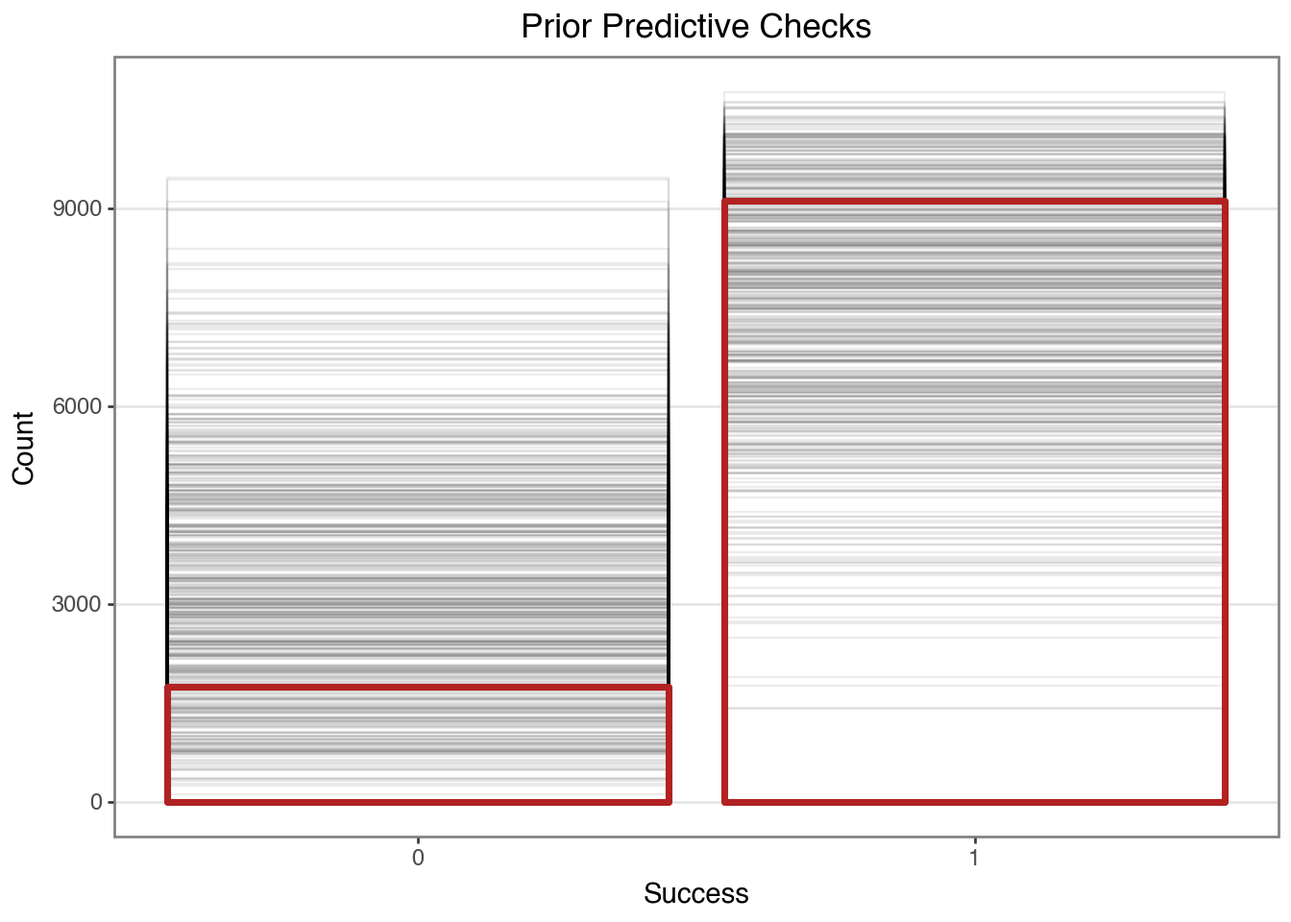
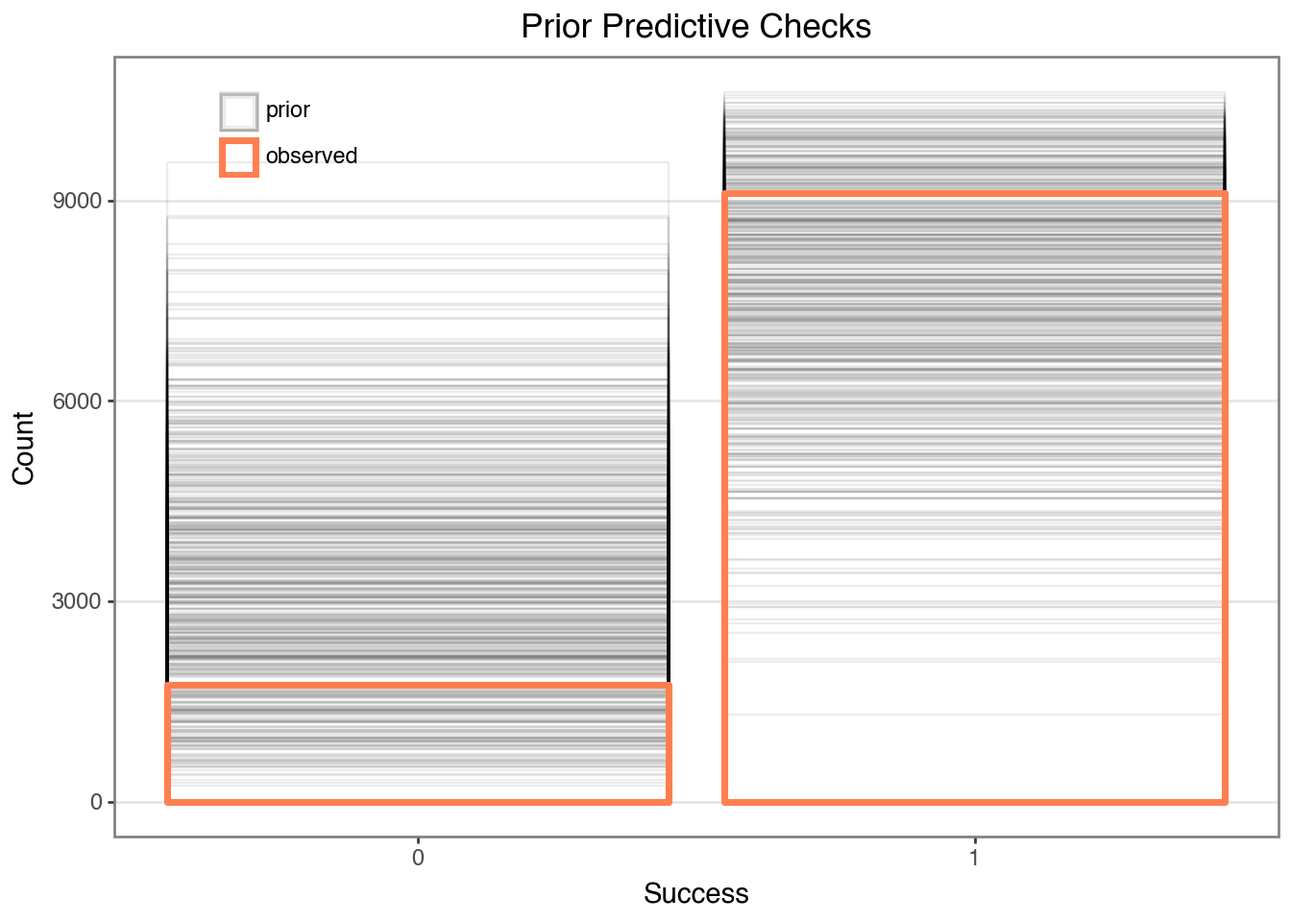
pretty prior

diff --git a/kicker_model.html b/kicker_model.html
@@ -348,7 +348,7 @@ y_i &amp;\sim \operatorname{Bernoulli}(p_i) \\
 <span id="cb4-24"><a href="#cb4-24" aria-hidden="true" tabindex="-1"></a>)</span>
 <span id="cb4-25"><a href="#cb4-25" aria-hidden="true" tabindex="-1"></a></span>
 <span id="cb4-26"><a href="#cb4-26" aria-hidden="true" tabindex="-1"></a>model</span></code><button title="Copy to Clipboard" class="code-copy-button"><i class="bi"></i></button></pre></div>
-<div class="cell-output cell-output-display" data-execution_count="20">
+<div class="cell-output cell-output-display" data-execution_count="4">
 <pre><code>       Formula: success ~ (1|player_id) + bs(distance, df=4, intercept=False)
         Family: bernoulli
           Link: p = logit
@@ -389,31 +389,29 @@ y_i &amp;\sim \operatorname{Bernoulli}(p_i) \\
 <span id="cb8-5"><a href="#cb8-5" aria-hidden="true" tabindex="-1"></a>(</span>
 <span id="cb8-6"><a href="#cb8-6" aria-hidden="true" tabindex="-1"></a>    ggplot(aes(<span class="st">"success"</span>, <span class="st">"len"</span>))</span>
 <span id="cb8-7"><a href="#cb8-7" aria-hidden="true" tabindex="-1"></a>    <span class="op">+</span> geom_col(</span>
-<span id="cb8-8"><a href="#cb8-8" aria-hidden="true" tabindex="-1"></a>        aes(group<span class="op">=</span><span class="st">"draw"</span>),</span>
+<span id="cb8-8"><a href="#cb8-8" aria-hidden="true" tabindex="-1"></a>        aes(group<span class="op">=</span><span class="st">"draw"</span>, color<span class="op">=</span><span class="st">"t"</span>),</span>
 <span id="cb8-9"><a href="#cb8-9" aria-hidden="true" tabindex="-1"></a>        position<span class="op">=</span><span class="st">"identity"</span>,</span>
 <span id="cb8-10"><a href="#cb8-10" aria-hidden="true" tabindex="-1"></a>        fill<span class="op">=</span><span class="va">None</span>,</span>
-<span id="cb8-11"><a href="#cb8-11" aria-hidden="true" tabindex="-1"></a>        color<span class="op">=</span><span class="st">"#00000013"</span>,</span>
+<span id="cb8-11"><a href="#cb8-11" aria-hidden="true" tabindex="-1"></a>        <span class="co"># color="#00000013",</span></span>
 <span id="cb8-12"><a href="#cb8-12" aria-hidden="true" tabindex="-1"></a>        alpha<span class="op">=</span><span class="fl">0.01</span>,</span>
-<span id="cb8-13"><a href="#cb8-13" aria-hidden="true" tabindex="-1"></a>        data<span class="op">=</span>df_prior.group_by([<span class="st">"draw"</span>, <span class="st">"success"</span>]).<span class="bu">len</span>(),</span>
-<span id="cb8-14"><a href="#cb8-14" aria-hidden="true" tabindex="-1"></a>    )</span>
-<span id="cb8-15"><a href="#cb8-15" aria-hidden="true" tabindex="-1"></a>    <span class="op">+</span> geom_col(</span>
-<span id="cb8-16"><a href="#cb8-16" aria-hidden="true" tabindex="-1"></a>        fill<span class="op">=</span><span class="va">None</span>,</span>
-<span id="cb8-17"><a href="#cb8-17" aria-hidden="true" tabindex="-1"></a>        color<span class="op">=</span><span class="st">"firebrick"</span>,</span>
-<span id="cb8-18"><a href="#cb8-18" aria-hidden="true" tabindex="-1"></a>        size <span class="op">=</span> <span class="fl">1.5</span>,</span>
-<span id="cb8-19"><a href="#cb8-19" aria-hidden="true" tabindex="-1"></a>        data<span class="op">=</span>df.group_by([<span class="st">"success"</span>]).<span class="bu">len</span>(),</span>
-<span id="cb8-20"><a href="#cb8-20" aria-hidden="true" tabindex="-1"></a>    )</span>
-<span id="cb8-21"><a href="#cb8-21" aria-hidden="true" tabindex="-1"></a>    <span class="op">+</span> theme_bw()</span>
-<span id="cb8-22"><a href="#cb8-22" aria-hidden="true" tabindex="-1"></a>    <span class="op">+</span> labs(</span>
-<span id="cb8-23"><a href="#cb8-23" aria-hidden="true" tabindex="-1"></a>        title <span class="op">=</span><span class="st">'Prior Predictive Checks'</span>,</span>
-<span id="cb8-24"><a href="#cb8-24" aria-hidden="true" tabindex="-1"></a>        x <span class="op">=</span> <span class="st">'Success'</span>,</span>
-<span id="cb8-25"><a href="#cb8-25" aria-hidden="true" tabindex="-1"></a>        y <span class="op">=</span> <span class="st">'Count'</span></span>
-<span id="cb8-26"><a href="#cb8-26" aria-hidden="true" tabindex="-1"></a>    )</span>
+<span id="cb8-13"><a href="#cb8-13" aria-hidden="true" tabindex="-1"></a>        data<span class="op">=</span>df_prior.group_by([<span class="st">"draw"</span>, <span class="st">"success"</span>])</span>
+<span id="cb8-14"><a href="#cb8-14" aria-hidden="true" tabindex="-1"></a>        .<span class="bu">len</span>()</span>
+<span id="cb8-15"><a href="#cb8-15" aria-hidden="true" tabindex="-1"></a>        .with_columns(t<span class="op">=</span>pl.lit(<span class="st">"prior"</span>)),</span>
+<span id="cb8-16"><a href="#cb8-16" aria-hidden="true" tabindex="-1"></a>    )</span>
+<span id="cb8-17"><a href="#cb8-17" aria-hidden="true" tabindex="-1"></a>    <span class="op">+</span> geom_col(</span>
+<span id="cb8-18"><a href="#cb8-18" aria-hidden="true" tabindex="-1"></a>        aes(color<span class="op">=</span><span class="st">"t"</span>),</span>
+<span id="cb8-19"><a href="#cb8-19" aria-hidden="true" tabindex="-1"></a>        fill<span class="op">=</span><span class="va">None</span>,</span>
+<span id="cb8-20"><a href="#cb8-20" aria-hidden="true" tabindex="-1"></a>        <span class="co">#width = 0.5,</span></span>
+<span id="cb8-21"><a href="#cb8-21" aria-hidden="true" tabindex="-1"></a>        <span class="co">#alpha = 0.1,</span></span>
+<span id="cb8-22"><a href="#cb8-22" aria-hidden="true" tabindex="-1"></a>        size<span class="op">=</span><span class="fl">1.5</span>,</span>
+<span id="cb8-23"><a href="#cb8-23" aria-hidden="true" tabindex="-1"></a>        data<span class="op">=</span>df.group_by([<span class="st">"success"</span>]).<span class="bu">len</span>().with_columns(t<span class="op">=</span>pl.lit(<span class="st">"observed"</span>)),</span>
+<span id="cb8-24"><a href="#cb8-24" aria-hidden="true" tabindex="-1"></a>    )</span>
+<span id="cb8-25"><a href="#cb8-25" aria-hidden="true" tabindex="-1"></a>    <span class="op">+</span> theme_bw()</span>
+<span id="cb8-26"><a href="#cb8-26" aria-hidden="true" tabindex="-1"></a>    <span class="op">+</span> labs(title<span class="op">=</span><span class="st">"Prior Predictive Checks"</span>, x<span class="op">=</span><span class="st">"Success"</span>, y<span class="op">=</span><span class="st">"Count"</span>, color<span class="op">=</span><span class="st">''</span>)</span>
 <span id="cb8-27"><a href="#cb8-27" aria-hidden="true" tabindex="-1"></a>    <span class="op">+</span> scale_x_continuous(breaks<span class="op">=</span>[<span class="dv">0</span>, <span class="dv">1</span>])</span>
-<span id="cb8-28"><a href="#cb8-28" aria-hidden="true" tabindex="-1"></a>    <span class="op">+</span> theme(</span>
-<span id="cb8-29"><a href="#cb8-29" aria-hidden="true" tabindex="-1"></a>        panel_grid_minor<span class="op">=</span>element_blank(),</span>
-<span id="cb8-30"><a href="#cb8-30" aria-hidden="true" tabindex="-1"></a>        panel_grid_major_x<span class="op">=</span>element_blank()</span>
-<span id="cb8-31"><a href="#cb8-31" aria-hidden="true" tabindex="-1"></a>    )</span>
-<span id="cb8-32"><a href="#cb8-32" aria-hidden="true" tabindex="-1"></a>)</span></code><button title="Copy to Clipboard" class="code-copy-button"><i class="bi"></i></button></pre></div>
+<span id="cb8-28"><a href="#cb8-28" aria-hidden="true" tabindex="-1"></a>    <span class="op">+</span> theme(panel_grid_minor<span class="op">=</span>element_blank(), panel_grid_major_x<span class="op">=</span>element_blank(), legend_position<span class="op">=</span>(<span class="fl">0.1</span>,<span class="dv">1</span>), legend_background<span class="op">=</span>element_blank())</span>
+<span id="cb8-29"><a href="#cb8-29" aria-hidden="true" tabindex="-1"></a>    <span class="op">+</span> scale_color_manual(values<span class="op">=</span>(<span class="st">"#00000013"</span>, <span class="st">'coral'</span>))</span>
+<span id="cb8-30"><a href="#cb8-30" aria-hidden="true" tabindex="-1"></a>)</span></code><button title="Copy to Clipboard" class="code-copy-button"><i class="bi"></i></button></pre></div>
 </details>
 <div class="cell-output cell-output-stderr">
 <pre><code>Sampling: [1|player_id_offset, 1|player_id_sigma, Intercept, bs(distance, df=4, intercept=False), success]</code></pre>
@@ -439,7 +437,7 @@ Sampling 4 chains for 1_000 tune and 1_000 draw iterations (4_000 + 4_000 draws 
 </div>
 <div class="cell-output cell-output-display">
 <script type="application/vnd.jupyter.widget-view+json">
-{"model_id":"37d672469698436f919d8279b207179b","version_major":2,"version_minor":0,"quarto_mimetype":"application/vnd.jupyter.widget-view+json"}
+{"model_id":"1f8a27e63a84453985e64b0b5316aeb8","version_major":2,"version_minor":0,"quarto_mimetype":"application/vnd.jupyter.widget-view+json"}
 </script>
 </div>
 <div class="cell-output cell-output-display">
@@ -469,7 +467,7 @@ Sampling 4 chains for 1_000 tune and 1_000 draw iterations (4_000 + 4_000 draws 
 <span id="cb12-12"><a href="#cb12-12" aria-hidden="true" tabindex="-1"></a>    columns<span class="op">=</span>{<span class="st">"index"</span>: <span class="st">"player_name"</span>}</span>
 <span id="cb12-13"><a href="#cb12-13" aria-hidden="true" tabindex="-1"></a>).sort_values(<span class="st">'mean'</span>, ascending<span class="op">=</span><span class="va">False</span>)</span></code><button title="Copy to Clipboard" class="code-copy-button"><i class="bi"></i></button></pre></div>
 </details>
-<div class="cell-output cell-output-display" data-execution_count="24">
+<div class="cell-output cell-output-display" data-execution_count="8">
 <div>
 
 
@@ -647,7 +645,7 @@ Sampling 4 chains for 1_000 tune and 1_000 draw iterations (4_000 + 4_000 draws 
 <p>Splines togehter with field goal distance were used, and the following discusses how those work with the model. The table below shows the summary of spline coefficient distributions.</p>
 <div class="cell" data-execution_count="9">
 <div class="sourceCode cell-code" id="cb13"><pre class="sourceCode python code-with-copy"><code class="sourceCode python"><span id="cb13-1"><a href="#cb13-1" aria-hidden="true" tabindex="-1"></a>az.summary(idata, var_names<span class="op">=</span>[<span class="st">"Intercept"</span>, s])</span></code><button title="Copy to Clipboard" class="code-copy-button"><i class="bi"></i></button></pre></div>
-<div class="cell-output cell-output-display" data-execution_count="25">
+<div class="cell-output cell-output-display" data-execution_count="9">
 <div>
 
 
@@ -853,7 +851,7 @@ Sampling 4 chains for 1_000 tune and 1_000 draw iterations (4_000 + 4_000 draws 
 </section>
 <section id="results-1" class="level4">
 <h4 class="anchored" data-anchor-id="results-1">2016-2017 results</h4>
-<p>Looking at the previous 2 seasons, Tucker was one of the better kickers in the by traditional FGOE.</p>
+<p>Looking at the previous 2 seasons, Tucker was one of the best kickers in the league by traditional FGOE.</p>
 <div class="cell" data-execution_count="14">
 <details>
 <summary>Code</summary>
@@ -888,7 +886,7 @@ Sampling 4 chains for 1_000 tune and 1_000 draw iterations (4_000 + 4_000 draws 
 <span id="cb18-29"><a href="#cb18-29" aria-hidden="true" tabindex="-1"></a>    <span class="op">+</span> scale_color_identity()</span>
 <span id="cb18-30"><a href="#cb18-30" aria-hidden="true" tabindex="-1"></a>    <span class="op">+</span> labs(</span>
 <span id="cb18-31"><a href="#cb18-31" aria-hidden="true" tabindex="-1"></a>        title<span class="op">=</span><span class="st">"Field Goal Over Expected (FGOE)"</span>,</span>
-<span id="cb18-32"><a href="#cb18-32" aria-hidden="true" tabindex="-1"></a>        subtitle<span class="op">=</span><span class="st">"2016 - 2017 | Justin Tucker has typically been one of the better kickers"</span>,</span>
+<span id="cb18-32"><a href="#cb18-32" aria-hidden="true" tabindex="-1"></a>        subtitle<span class="op">=</span><span class="st">"2016 - 2017 | Justin Tucker has been one of the best"</span>,</span>
 <span id="cb18-33"><a href="#cb18-33" aria-hidden="true" tabindex="-1"></a>        y<span class="op">=</span><span class="st">"Traditional FGOE"</span>,</span>
 <span id="cb18-34"><a href="#cb18-34" aria-hidden="true" tabindex="-1"></a>    )</span>
 <span id="cb18-35"><a href="#cb18-35" aria-hidden="true" tabindex="-1"></a>    <span class="op">+</span> theme_bw()</span>
@@ -1014,7 +1012,7 @@ Sampling 4 chains for 1_000 tune and 1_000 draw iterations (4_000 + 4_000 draws 
 <span id="cb20-32"><a href="#cb20-32" aria-hidden="true" tabindex="-1"></a>df_output.group_by([<span class="st">"player_name"</span>, <span class="st">"player_id"</span>]).agg(</span>
 <span id="cb20-33"><a href="#cb20-33" aria-hidden="true" tabindex="-1"></a>    fgoe_mean<span class="op">=</span>pl.col(<span class="st">"fgoe"</span>).mean(), simulations<span class="op">=</span>pl.<span class="bu">len</span>()</span>
 <span id="cb20-34"><a href="#cb20-34" aria-hidden="true" tabindex="-1"></a>)</span></code><button title="Copy to Clipboard" class="code-copy-button"><i class="bi"></i></button></pre></div>
-<div class="cell-output cell-output-display" data-execution_count="32">
+<div class="cell-output cell-output-display" data-execution_count="16">
 <div><style>
 .dataframe > thead > tr,
 .dataframe > tbody > tr {
@@ -1040,9 +1038,21 @@ Sampling 4 chains for 1_000 tune and 1_000 draw iterations (4_000 + 4_000 draws 
 </thead>
 <tbody>
 <tr class="odd">
-<td>"JAKE ELLIOTT"</td>
-<td>"44966"</td>
-<td>-0.136802</td>
+<td>"JASON MYERS"</td>
+<td>"41175"</td>
+<td>0.206849</td>
+<td>4000</td>
+</tr>
+<tr class="even">
+<td>"JOHNNY HEKKER"</td>
+<td>"38815"</td>
+<td>-0.048811</td>
+<td>4000</td>
+</tr>
+<tr class="odd">
+<td>"STEPHEN GOSTKOWSKI"</td>
+<td>"30932"</td>
+<td>1.309409</td>
 <td>4000</td>
 </tr>
 <tr class="even">
@@ -1052,21 +1062,9 @@ Sampling 4 chains for 1_000 tune and 1_000 draw iterations (4_000 + 4_000 draws 
 <td>4000</td>
 </tr>
 <tr class="odd">
-<td>"KA'IMI FAIRBAIRN"</td>
-<td>"43846"</td>
-<td>-0.289332</td>
-<td>4000</td>
-</tr>
-<tr class="even">
-<td>"HARRISON BUTKER"</td>
-<td>"45046"</td>
-<td>1.015906</td>
-<td>4000</td>
-</tr>
-<tr class="odd">
-<td>"NICK ROSE"</td>
-<td>"43704"</td>
-<td>-1.165506</td>
+<td>"BRETT MAHER"</td>
+<td>"40775"</td>
+<td>0.657678</td>
 <td>4000</td>
 </tr>
 <tr class="even">
@@ -1074,18 +1072,6 @@ Sampling 4 chains for 1_000 tune and 1_000 draw iterations (4_000 + 4_000 draws 
 <td>…</td>
 <td>…</td>
 <td>…</td>
-</tr>
-<tr class="odd">
-<td>"BRANDON MCMANUS"</td>
-<td>"40276"</td>
-<td>0.380004</td>
-<td>4000</td>
-</tr>
-<tr class="even">
-<td>"MATTHEW MCCRANE"</td>
-<td>"46663"</td>
-<td>-0.373552</td>
-<td>4000</td>
 </tr>
 <tr class="odd">
 <td>"JON BROWN"</td>
@@ -1094,15 +1080,27 @@ Sampling 4 chains for 1_000 tune and 1_000 draw iterations (4_000 + 4_000 draws 
 <td>4000</td>
 </tr>
 <tr class="even">
-<td>"STEPHEN GOSTKOWSKI"</td>
-<td>"30932"</td>
-<td>1.309409</td>
+<td>"GREG JOSEPH"</td>
+<td>"46634"</td>
+<td>0.250833</td>
 <td>4000</td>
 </tr>
 <tr class="odd">
-<td>"JOHNNY HEKKER"</td>
-<td>"38815"</td>
-<td>-0.048811</td>
+<td>"ALDRICK ROSAS"</td>
+<td>"43937"</td>
+<td>0.054861</td>
+<td>4000</td>
+</tr>
+<tr class="even">
+<td>"JUSTIN TUCKER"</td>
+<td>"39470"</td>
+<td>2.574611</td>
+<td>4000</td>
+</tr>
+<tr class="odd">
+<td>"SAM FICKEN"</td>
+<td>"44240"</td>
+<td>-0.727928</td>
 <td>4000</td>
 </tr>
 </tbody>
@@ -1402,54 +1400,54 @@ Note
 <span id="cb24-111"><a href="#cb24-111" aria-hidden="true" tabindex="-1"></a>    )</span>
 <span id="cb24-112"><a href="#cb24-112" aria-hidden="true" tabindex="-1"></a>)</span></code><button title="Copy to Clipboard" class="code-copy-button"><i class="bi"></i></button></pre></div>
 </details>
-<div class="cell-output cell-output-display" data-execution_count="36">
+<div class="cell-output cell-output-display" data-execution_count="20">
 
-<div id="amqemqhapv" style="padding-left:0px;padding-right:0px;padding-top:10px;padding-bottom:10px;overflow-x:auto;overflow-y:auto;width:auto;height:auto;">
+<div id="tuexepanze" style="padding-left:0px;padding-right:0px;padding-top:10px;padding-bottom:10px;overflow-x:auto;overflow-y:auto;width:auto;height:auto;">
 <style>
-#amqemqhapv table {
+#tuexepanze table {
           font-family: -apple-system, BlinkMacSystemFont, 'Segoe UI', Roboto, Oxygen, Ubuntu, Cantarell, 'Helvetica Neue', 'Fira Sans', 'Droid Sans', Arial, sans-serif;
           -webkit-font-smoothing: antialiased;
           -moz-osx-font-smoothing: grayscale;
         }
 
-#amqemqhapv thead, tbody, tfoot, tr, td, th { border-style: none; }
+#tuexepanze thead, tbody, tfoot, tr, td, th { border-style: none; }
  tr { background-color: transparent; }
-#amqemqhapv p { margin: 0; padding: 0; }
- #amqemqhapv .gt_table { display: table; border-collapse: collapse; line-height: normal; margin-left: auto; margin-right: auto; color: #333333; font-size: 16px; font-weight: normal; font-style: normal; background-color: #FFFFFF; width: auto; border-top-style: solid; border-top-width: 2px; border-top-color: #A8A8A8; border-right-style: none; border-right-width: 2px; border-right-color: #D3D3D3; border-bottom-style: solid; border-bottom-width: 2px; border-bottom-color: #A8A8A8; border-left-style: none; border-left-width: 2px; border-left-color: #D3D3D3; }
- #amqemqhapv .gt_caption { padding-top: 4px; padding-bottom: 4px; }
- #amqemqhapv .gt_title { color: #333333; font-size: 125%; font-weight: initial; padding-top: 4px; padding-bottom: 4px; padding-left: 5px; padding-right: 5px; border-bottom-color: #FFFFFF; border-bottom-width: 0; }
- #amqemqhapv .gt_subtitle { color: #333333; font-size: 85%; font-weight: initial; padding-top: 3px; padding-bottom: 5px; padding-left: 5px; padding-right: 5px; border-top-color: #FFFFFF; border-top-width: 0; }
- #amqemqhapv .gt_heading { background-color: #FFFFFF; text-align: center; border-bottom-color: #FFFFFF; border-left-style: none; border-left-width: 1px; border-left-color: #D3D3D3; border-right-style: none; border-right-width: 1px; border-right-color: #D3D3D3; }
- #amqemqhapv .gt_bottom_border { border-bottom-style: solid; border-bottom-width: 2px; border-bottom-color: #D3D3D3; }
- #amqemqhapv .gt_col_headings { border-top-style: solid; border-top-width: 2px; border-top-color: #D3D3D3; border-bottom-style: solid; border-bottom-width: 2px; border-bottom-color: #D3D3D3; border-left-style: none; border-left-width: 1px; border-left-color: #D3D3D3; border-right-style: none; border-right-width: 1px; border-right-color: #D3D3D3; }
- #amqemqhapv .gt_col_heading { color: #333333; background-color: #FFFFFF; font-size: 100%; font-weight: normal; text-transform: inherit; border-left-style: none; border-left-width: 1px; border-left-color: #D3D3D3; border-right-style: none; border-right-width: 1px; border-right-color: #D3D3D3; vertical-align: bottom; padding-top: 5px; padding-bottom: 5px; padding-left: 5px; padding-right: 5px; overflow-x: hidden; }
- #amqemqhapv .gt_column_spanner_outer { color: #333333; background-color: #FFFFFF; font-size: 100%; font-weight: normal; text-transform: inherit; padding-top: 0; padding-bottom: 0; padding-left: 4px; padding-right: 4px; }
- #amqemqhapv .gt_column_spanner_outer:first-child { padding-left: 0; }
- #amqemqhapv .gt_column_spanner_outer:last-child { padding-right: 0; }
- #amqemqhapv .gt_column_spanner { border-bottom-style: solid; border-bottom-width: 2px; border-bottom-color: #D3D3D3; vertical-align: bottom; padding-top: 5px; padding-bottom: 5px; overflow-x: hidden; display: inline-block; width: 100%; }
- #amqemqhapv .gt_spanner_row { border-bottom-style: hidden; }
- #amqemqhapv .gt_group_heading { padding-top: 8px; padding-bottom: 8px; padding-left: 5px; padding-right: 5px; color: #333333; background-color: #FFFFFF; font-size: 100%; font-weight: initial; text-transform: inherit; border-top-style: solid; border-top-width: 2px; border-top-color: #D3D3D3; border-bottom-style: solid; border-bottom-width: 2px; border-bottom-color: #D3D3D3; border-left-style: none; border-left-width: 1px; border-left-color: #D3D3D3; border-right-style: none; border-right-width: 1px; border-right-color: #D3D3D3; vertical-align: middle; text-align: left; }
- #amqemqhapv .gt_empty_group_heading { padding: 0.5px; color: #333333; background-color: #FFFFFF; font-size: 100%; font-weight: initial; border-top-style: solid; border-top-width: 2px; border-top-color: #D3D3D3; border-bottom-style: solid; border-bottom-width: 2px; border-bottom-color: #D3D3D3; vertical-align: middle; }
- #amqemqhapv .gt_from_md> :first-child { margin-top: 0; }
- #amqemqhapv .gt_from_md> :last-child { margin-bottom: 0; }
- #amqemqhapv .gt_row { padding-top: 8px; padding-bottom: 8px; padding-left: 5px; padding-right: 5px; margin: 10px; border-top-style: solid; border-top-width: 1px; border-top-color: #D3D3D3; border-left-style: none; border-left-width: 1px; border-left-color: #D3D3D3; border-right-style: none; border-right-width: 1px; border-right-color: #D3D3D3; vertical-align: middle; overflow-x: hidden; }
- #amqemqhapv .gt_stub { color: #333333; background-color: #FFFFFF; font-size: 100%; font-weight: initial; text-transform: inherit; border-right-style: solid; border-right-width: 2px; border-right-color: #D3D3D3; padding-left: 5px; padding-right: 5px; }
- #amqemqhapv .gt_stub_row_group { color: #333333; background-color: #FFFFFF; font-size: 100%; font-weight: initial; text-transform: inherit; border-right-style: solid; border-right-width: 2px; border-right-color: #D3D3D3; padding-left: 5px; padding-right: 5px; vertical-align: top; }
- #amqemqhapv .gt_row_group_first td { border-top-width: 2px; }
- #amqemqhapv .gt_row_group_first th { border-top-width: 2px; }
- #amqemqhapv .gt_striped { background-color: rgba(128,128,128,0.05); }
- #amqemqhapv .gt_table_body { border-top-style: solid; border-top-width: 2px; border-top-color: #D3D3D3; border-bottom-style: solid; border-bottom-width: 2px; border-bottom-color: #D3D3D3; }
- #amqemqhapv .gt_sourcenotes { color: #333333; background-color: #FFFFFF; border-bottom-style: none; border-bottom-width: 2px; border-bottom-color: #D3D3D3; border-left-style: none; border-left-width: 2px; border-left-color: #D3D3D3; border-right-style: none; border-right-width: 2px; border-right-color: #D3D3D3; }
- #amqemqhapv .gt_sourcenote { font-size: 90%; padding-top: 4px; padding-bottom: 4px; padding-left: 5px; padding-right: 5px; text-align: left; }
- #amqemqhapv .gt_left { text-align: left; }
- #amqemqhapv .gt_center { text-align: center; }
- #amqemqhapv .gt_right { text-align: right; font-variant-numeric: tabular-nums; }
- #amqemqhapv .gt_font_normal { font-weight: normal; }
- #amqemqhapv .gt_font_bold { font-weight: bold; }
- #amqemqhapv .gt_font_italic { font-style: italic; }
- #amqemqhapv .gt_super { font-size: 65%; }
- #amqemqhapv .gt_footnote_marks { font-size: 75%; vertical-align: 0.4em; position: initial; }
- #amqemqhapv .gt_asterisk { font-size: 100%; vertical-align: 0; }
+#tuexepanze p { margin: 0; padding: 0; }
+ #tuexepanze .gt_table { display: table; border-collapse: collapse; line-height: normal; margin-left: auto; margin-right: auto; color: #333333; font-size: 16px; font-weight: normal; font-style: normal; background-color: #FFFFFF; width: auto; border-top-style: solid; border-top-width: 2px; border-top-color: #A8A8A8; border-right-style: none; border-right-width: 2px; border-right-color: #D3D3D3; border-bottom-style: solid; border-bottom-width: 2px; border-bottom-color: #A8A8A8; border-left-style: none; border-left-width: 2px; border-left-color: #D3D3D3; }
+ #tuexepanze .gt_caption { padding-top: 4px; padding-bottom: 4px; }
+ #tuexepanze .gt_title { color: #333333; font-size: 125%; font-weight: initial; padding-top: 4px; padding-bottom: 4px; padding-left: 5px; padding-right: 5px; border-bottom-color: #FFFFFF; border-bottom-width: 0; }
+ #tuexepanze .gt_subtitle { color: #333333; font-size: 85%; font-weight: initial; padding-top: 3px; padding-bottom: 5px; padding-left: 5px; padding-right: 5px; border-top-color: #FFFFFF; border-top-width: 0; }
+ #tuexepanze .gt_heading { background-color: #FFFFFF; text-align: center; border-bottom-color: #FFFFFF; border-left-style: none; border-left-width: 1px; border-left-color: #D3D3D3; border-right-style: none; border-right-width: 1px; border-right-color: #D3D3D3; }
+ #tuexepanze .gt_bottom_border { border-bottom-style: solid; border-bottom-width: 2px; border-bottom-color: #D3D3D3; }
+ #tuexepanze .gt_col_headings { border-top-style: solid; border-top-width: 2px; border-top-color: #D3D3D3; border-bottom-style: solid; border-bottom-width: 2px; border-bottom-color: #D3D3D3; border-left-style: none; border-left-width: 1px; border-left-color: #D3D3D3; border-right-style: none; border-right-width: 1px; border-right-color: #D3D3D3; }
+ #tuexepanze .gt_col_heading { color: #333333; background-color: #FFFFFF; font-size: 100%; font-weight: normal; text-transform: inherit; border-left-style: none; border-left-width: 1px; border-left-color: #D3D3D3; border-right-style: none; border-right-width: 1px; border-right-color: #D3D3D3; vertical-align: bottom; padding-top: 5px; padding-bottom: 5px; padding-left: 5px; padding-right: 5px; overflow-x: hidden; }
+ #tuexepanze .gt_column_spanner_outer { color: #333333; background-color: #FFFFFF; font-size: 100%; font-weight: normal; text-transform: inherit; padding-top: 0; padding-bottom: 0; padding-left: 4px; padding-right: 4px; }
+ #tuexepanze .gt_column_spanner_outer:first-child { padding-left: 0; }
+ #tuexepanze .gt_column_spanner_outer:last-child { padding-right: 0; }
+ #tuexepanze .gt_column_spanner { border-bottom-style: solid; border-bottom-width: 2px; border-bottom-color: #D3D3D3; vertical-align: bottom; padding-top: 5px; padding-bottom: 5px; overflow-x: hidden; display: inline-block; width: 100%; }
+ #tuexepanze .gt_spanner_row { border-bottom-style: hidden; }
+ #tuexepanze .gt_group_heading { padding-top: 8px; padding-bottom: 8px; padding-left: 5px; padding-right: 5px; color: #333333; background-color: #FFFFFF; font-size: 100%; font-weight: initial; text-transform: inherit; border-top-style: solid; border-top-width: 2px; border-top-color: #D3D3D3; border-bottom-style: solid; border-bottom-width: 2px; border-bottom-color: #D3D3D3; border-left-style: none; border-left-width: 1px; border-left-color: #D3D3D3; border-right-style: none; border-right-width: 1px; border-right-color: #D3D3D3; vertical-align: middle; text-align: left; }
+ #tuexepanze .gt_empty_group_heading { padding: 0.5px; color: #333333; background-color: #FFFFFF; font-size: 100%; font-weight: initial; border-top-style: solid; border-top-width: 2px; border-top-color: #D3D3D3; border-bottom-style: solid; border-bottom-width: 2px; border-bottom-color: #D3D3D3; vertical-align: middle; }
+ #tuexepanze .gt_from_md> :first-child { margin-top: 0; }
+ #tuexepanze .gt_from_md> :last-child { margin-bottom: 0; }
+ #tuexepanze .gt_row { padding-top: 8px; padding-bottom: 8px; padding-left: 5px; padding-right: 5px; margin: 10px; border-top-style: solid; border-top-width: 1px; border-top-color: #D3D3D3; border-left-style: none; border-left-width: 1px; border-left-color: #D3D3D3; border-right-style: none; border-right-width: 1px; border-right-color: #D3D3D3; vertical-align: middle; overflow-x: hidden; }
+ #tuexepanze .gt_stub { color: #333333; background-color: #FFFFFF; font-size: 100%; font-weight: initial; text-transform: inherit; border-right-style: solid; border-right-width: 2px; border-right-color: #D3D3D3; padding-left: 5px; padding-right: 5px; }
+ #tuexepanze .gt_stub_row_group { color: #333333; background-color: #FFFFFF; font-size: 100%; font-weight: initial; text-transform: inherit; border-right-style: solid; border-right-width: 2px; border-right-color: #D3D3D3; padding-left: 5px; padding-right: 5px; vertical-align: top; }
+ #tuexepanze .gt_row_group_first td { border-top-width: 2px; }
+ #tuexepanze .gt_row_group_first th { border-top-width: 2px; }
+ #tuexepanze .gt_striped { background-color: rgba(128,128,128,0.05); }
+ #tuexepanze .gt_table_body { border-top-style: solid; border-top-width: 2px; border-top-color: #D3D3D3; border-bottom-style: solid; border-bottom-width: 2px; border-bottom-color: #D3D3D3; }
+ #tuexepanze .gt_sourcenotes { color: #333333; background-color: #FFFFFF; border-bottom-style: none; border-bottom-width: 2px; border-bottom-color: #D3D3D3; border-left-style: none; border-left-width: 2px; border-left-color: #D3D3D3; border-right-style: none; border-right-width: 2px; border-right-color: #D3D3D3; }
+ #tuexepanze .gt_sourcenote { font-size: 90%; padding-top: 4px; padding-bottom: 4px; padding-left: 5px; padding-right: 5px; text-align: left; }
+ #tuexepanze .gt_left { text-align: left; }
+ #tuexepanze .gt_center { text-align: center; }
+ #tuexepanze .gt_right { text-align: right; font-variant-numeric: tabular-nums; }
+ #tuexepanze .gt_font_normal { font-weight: normal; }
+ #tuexepanze .gt_font_bold { font-weight: bold; }
+ #tuexepanze .gt_font_italic { font-style: italic; }
+ #tuexepanze .gt_super { font-size: 65%; }
+ #tuexepanze .gt_footnote_marks { font-size: 75%; vertical-align: 0.4em; position: initial; }
+ #tuexepanze .gt_asterisk { font-size: 100%; vertical-align: 0; }
  
 </style>
 <table class="gt_table" data-quarto-disable-processing="false" data-quarto-bootstrap="false">
@@ -1697,7 +1695,7 @@ Note
 </main>
 <!-- /main column -->
 <script type="application/vnd.jupyter.widget-state+json">
-{"state":{"0419ac71bf3046409617b322fa8a9570":{"model_module":"@jupyter-widgets/output","model_module_version":"1.0.0","model_name":"OutputModel","state":{"_dom_classes":[],"_model_module":"@jupyter-widgets/output","_model_module_version":"1.0.0","_model_name":"OutputModel","_view_count":null,"_view_module":"@jupyter-widgets/output","_view_module_version":"1.0.0","_view_name":"OutputView","layout":"IPY_MODEL_8e1fe11a8a544e07bab3eebd47229af4","msg_id":"","outputs":[{"data":{"text/html":"<pre style=\"white-space:pre;overflow-x:auto;line-height:normal;font-family:Menlo,'DejaVu Sans Mono',consolas,'Courier New',monospace\">                                                                                                                   \n <span style=\"font-weight: bold\"> Progress                  </span> <span style=\"font-weight: bold\"> Draws </span> <span style=\"font-weight: bold\"> Divergences </span> <span style=\"font-weight: bold\"> Step size </span> <span style=\"font-weight: bold\"> Grad evals </span> <span style=\"font-weight: bold\"> Sampling Speed </span> <span style=\"font-weight: bold\"> Elapsed </span> <span style=\"font-weight: bold\"> Remaining </span> \n ───────────────────────────────────────────────────────────────────────────────────────────────────────────────── \n  <span style=\"color: #1f77b4; text-decoration-color: #1f77b4\">━━━━━━━━━━━━━━━━━━━━━━━━━</span>   2000    0             0.23        15           111.65 draws/s   0:00:17   0:00:00    \n  <span style=\"color: #1f77b4; text-decoration-color: #1f77b4\">━━━━━━━━━━━━━━━━━━━━━━━━━</span>   2000    0             0.15        15           55.02 draws/s    0:00:36   0:00:00    \n  <span style=\"color: #1f77b4; text-decoration-color: #1f77b4\">━━━━━━━━━━━━━━━━━━━━━━━━━</span>   2000    0             0.27        15           36.72 draws/s    0:00:54   0:00:00    \n  <span style=\"color: #1f77b4; text-decoration-color: #1f77b4\">━━━━━━━━━━━━━━━━━━━━━━━━━</span>   2000    0             0.22        15           27.88 draws/s    0:01:11   0:00:00    \n                                                                                                                   \n</pre>\n","text/plain":"                                                                                                                   \n \u001b[1m \u001b[0m\u001b[1mProgress                 \u001b[0m\u001b[1m \u001b[0m \u001b[1m \u001b[0m\u001b[1mDraws\u001b[0m\u001b[1m \u001b[0m \u001b[1m \u001b[0m\u001b[1mDivergences\u001b[0m\u001b[1m \u001b[0m \u001b[1m \u001b[0m\u001b[1mStep size\u001b[0m\u001b[1m \u001b[0m \u001b[1m \u001b[0m\u001b[1mGrad evals\u001b[0m\u001b[1m \u001b[0m \u001b[1m \u001b[0m\u001b[1mSampling Speed\u001b[0m\u001b[1m \u001b[0m \u001b[1m \u001b[0m\u001b[1mElapsed\u001b[0m\u001b[1m \u001b[0m \u001b[1m \u001b[0m\u001b[1mRemaining\u001b[0m\u001b[1m \u001b[0m \n ───────────────────────────────────────────────────────────────────────────────────────────────────────────────── \n  \u001b[38;2;31;119;180m━━━━━━━━━━━━━━━━━━━━━━━━━\u001b[0m   2000    0             0.23        15           111.65 draws/s   0:00:17   0:00:00    \n  \u001b[38;2;31;119;180m━━━━━━━━━━━━━━━━━━━━━━━━━\u001b[0m   2000    0             0.15        15           55.02 draws/s    0:00:36   0:00:00    \n  \u001b[38;2;31;119;180m━━━━━━━━━━━━━━━━━━━━━━━━━\u001b[0m   2000    0             0.27        15           36.72 draws/s    0:00:54   0:00:00    \n  \u001b[38;2;31;119;180m━━━━━━━━━━━━━━━━━━━━━━━━━\u001b[0m   2000    0             0.22        15           27.88 draws/s    0:01:11   0:00:00    \n                                                                                                                   \n"},"metadata":{},"output_type":"display_data"}],"tabbable":null,"tooltip":null}},"37d672469698436f919d8279b207179b":{"model_module":"@jupyter-widgets/output","model_module_version":"1.0.0","model_name":"OutputModel","state":{"_dom_classes":[],"_model_module":"@jupyter-widgets/output","_model_module_version":"1.0.0","_model_name":"OutputModel","_view_count":null,"_view_module":"@jupyter-widgets/output","_view_module_version":"1.0.0","_view_name":"OutputView","layout":"IPY_MODEL_783d07d0697e4291bac0809ff5ba9390","msg_id":"","outputs":[{"data":{"text/html":"<pre style=\"white-space:pre;overflow-x:auto;line-height:normal;font-family:Menlo,'DejaVu Sans Mono',consolas,'Courier New',monospace\">                                                                                                                   \n <span style=\"font-weight: bold\"> Progress                  </span> <span style=\"font-weight: bold\"> Draws </span> <span style=\"font-weight: bold\"> Divergences </span> <span style=\"font-weight: bold\"> Step size </span> <span style=\"font-weight: bold\"> Grad evals </span> <span style=\"font-weight: bold\"> Sampling Speed </span> <span style=\"font-weight: bold\"> Elapsed </span> <span style=\"font-weight: bold\"> Remaining </span> \n ───────────────────────────────────────────────────────────────────────────────────────────────────────────────── \n  <span style=\"color: #1f77b4; text-decoration-color: #1f77b4\">━━━━━━━━━━━━━━━━━━━━━━━━━</span>   2000    0             0.23        15           111.77 draws/s   0:00:17   0:00:00    \n  <span style=\"color: #1f77b4; text-decoration-color: #1f77b4\">━━━━━━━━━━━━━━━━━━━━━━━━━</span>   2000    0             0.15        15           55.11 draws/s    0:00:36   0:00:00    \n  <span style=\"color: #1f77b4; text-decoration-color: #1f77b4\">━━━━━━━━━━━━━━━━━━━━━━━━━</span>   2000    0             0.27        15           36.77 draws/s    0:00:54   0:00:00    \n  <span style=\"color: #1f77b4; text-decoration-color: #1f77b4\">━━━━━━━━━━━━━━━━━━━━━━━━━</span>   2000    0             0.22        15           27.89 draws/s    0:01:11   0:00:00    \n                                                                                                                   \n</pre>\n","text/plain":"                                                                                                                   \n \u001b[1m \u001b[0m\u001b[1mProgress                 \u001b[0m\u001b[1m \u001b[0m \u001b[1m \u001b[0m\u001b[1mDraws\u001b[0m\u001b[1m \u001b[0m \u001b[1m \u001b[0m\u001b[1mDivergences\u001b[0m\u001b[1m \u001b[0m \u001b[1m \u001b[0m\u001b[1mStep size\u001b[0m\u001b[1m \u001b[0m \u001b[1m \u001b[0m\u001b[1mGrad evals\u001b[0m\u001b[1m \u001b[0m \u001b[1m \u001b[0m\u001b[1mSampling Speed\u001b[0m\u001b[1m \u001b[0m \u001b[1m \u001b[0m\u001b[1mElapsed\u001b[0m\u001b[1m \u001b[0m \u001b[1m \u001b[0m\u001b[1mRemaining\u001b[0m\u001b[1m \u001b[0m \n ───────────────────────────────────────────────────────────────────────────────────────────────────────────────── \n  \u001b[38;2;31;119;180m━━━━━━━━━━━━━━━━━━━━━━━━━\u001b[0m   2000    0             0.23        15           111.77 draws/s   0:00:17   0:00:00    \n  \u001b[38;2;31;119;180m━━━━━━━━━━━━━━━━━━━━━━━━━\u001b[0m   2000    0             0.15        15           55.11 draws/s    0:00:36   0:00:00    \n  \u001b[38;2;31;119;180m━━━━━━━━━━━━━━━━━━━━━━━━━\u001b[0m   2000    0             0.27        15           36.77 draws/s    0:00:54   0:00:00    \n  \u001b[38;2;31;119;180m━━━━━━━━━━━━━━━━━━━━━━━━━\u001b[0m   2000    0             0.22        15           27.89 draws/s    0:01:11   0:00:00    \n                                                                                                                   \n"},"metadata":{},"output_type":"display_data"}],"tabbable":null,"tooltip":null}},"783d07d0697e4291bac0809ff5ba9390":{"model_module":"@jupyter-widgets/base","model_module_version":"2.0.0","model_name":"LayoutModel","state":{"_model_module":"@jupyter-widgets/base","_model_module_version":"2.0.0","_model_name":"LayoutModel","_view_count":null,"_view_module":"@jupyter-widgets/base","_view_module_version":"2.0.0","_view_name":"LayoutView","align_content":null,"align_items":null,"align_self":null,"border_bottom":null,"border_left":null,"border_right":null,"border_top":null,"bottom":null,"display":null,"flex":null,"flex_flow":null,"grid_area":null,"grid_auto_columns":null,"grid_auto_flow":null,"grid_auto_rows":null,"grid_column":null,"grid_gap":null,"grid_row":null,"grid_template_areas":null,"grid_template_columns":null,"grid_template_rows":null,"height":null,"justify_content":null,"justify_items":null,"left":null,"margin":null,"max_height":null,"max_width":null,"min_height":null,"min_width":null,"object_fit":null,"object_position":null,"order":null,"overflow":null,"padding":null,"right":null,"top":null,"visibility":null,"width":null}},"8e1fe11a8a544e07bab3eebd47229af4":{"model_module":"@jupyter-widgets/base","model_module_version":"2.0.0","model_name":"LayoutModel","state":{"_model_module":"@jupyter-widgets/base","_model_module_version":"2.0.0","_model_name":"LayoutModel","_view_count":null,"_view_module":"@jupyter-widgets/base","_view_module_version":"2.0.0","_view_name":"LayoutView","align_content":null,"align_items":null,"align_self":null,"border_bottom":null,"border_left":null,"border_right":null,"border_top":null,"bottom":null,"display":null,"flex":null,"flex_flow":null,"grid_area":null,"grid_auto_columns":null,"grid_auto_flow":null,"grid_auto_rows":null,"grid_column":null,"grid_gap":null,"grid_row":null,"grid_template_areas":null,"grid_template_columns":null,"grid_template_rows":null,"height":null,"justify_content":null,"justify_items":null,"left":null,"margin":null,"max_height":null,"max_width":null,"min_height":null,"min_width":null,"object_fit":null,"object_position":null,"order":null,"overflow":null,"padding":null,"right":null,"top":null,"visibility":null,"width":null}}},"version_major":2,"version_minor":0}
+{"state":{"1f8a27e63a84453985e64b0b5316aeb8":{"model_module":"@jupyter-widgets/output","model_module_version":"1.0.0","model_name":"OutputModel","state":{"_dom_classes":[],"_model_module":"@jupyter-widgets/output","_model_module_version":"1.0.0","_model_name":"OutputModel","_view_count":null,"_view_module":"@jupyter-widgets/output","_view_module_version":"1.0.0","_view_name":"OutputView","layout":"IPY_MODEL_e3abdc8187484b51b8e2f93b1f2c29a8","msg_id":"","outputs":[{"data":{"text/html":"<pre style=\"white-space:pre;overflow-x:auto;line-height:normal;font-family:Menlo,'DejaVu Sans Mono',consolas,'Courier New',monospace\">                                                                                                                   \n <span style=\"font-weight: bold\"> Progress                  </span> <span style=\"font-weight: bold\"> Draws </span> <span style=\"font-weight: bold\"> Divergences </span> <span style=\"font-weight: bold\"> Step size </span> <span style=\"font-weight: bold\"> Grad evals </span> <span style=\"font-weight: bold\"> Sampling Speed </span> <span style=\"font-weight: bold\"> Elapsed </span> <span style=\"font-weight: bold\"> Remaining </span> \n ───────────────────────────────────────────────────────────────────────────────────────────────────────────────── \n  <span style=\"color: #1f77b4; text-decoration-color: #1f77b4\">━━━━━━━━━━━━━━━━━━━━━━━━━</span>   2000    0             0.23        15           111.85 draws/s   0:00:17   0:00:00    \n  <span style=\"color: #1f77b4; text-decoration-color: #1f77b4\">━━━━━━━━━━━━━━━━━━━━━━━━━</span>   2000    0             0.15        15           54.99 draws/s    0:00:36   0:00:00    \n  <span style=\"color: #1f77b4; text-decoration-color: #1f77b4\">━━━━━━━━━━━━━━━━━━━━━━━━━</span>   2000    0             0.27        15           36.73 draws/s    0:00:54   0:00:00    \n  <span style=\"color: #1f77b4; text-decoration-color: #1f77b4\">━━━━━━━━━━━━━━━━━━━━━━━━━</span>   2000    0             0.22        15           27.86 draws/s    0:01:11   0:00:00    \n                                                                                                                   \n</pre>\n","text/plain":"                                                                                                                   \n \u001b[1m \u001b[0m\u001b[1mProgress                 \u001b[0m\u001b[1m \u001b[0m \u001b[1m \u001b[0m\u001b[1mDraws\u001b[0m\u001b[1m \u001b[0m \u001b[1m \u001b[0m\u001b[1mDivergences\u001b[0m\u001b[1m \u001b[0m \u001b[1m \u001b[0m\u001b[1mStep size\u001b[0m\u001b[1m \u001b[0m \u001b[1m \u001b[0m\u001b[1mGrad evals\u001b[0m\u001b[1m \u001b[0m \u001b[1m \u001b[0m\u001b[1mSampling Speed\u001b[0m\u001b[1m \u001b[0m \u001b[1m \u001b[0m\u001b[1mElapsed\u001b[0m\u001b[1m \u001b[0m \u001b[1m \u001b[0m\u001b[1mRemaining\u001b[0m\u001b[1m \u001b[0m \n ───────────────────────────────────────────────────────────────────────────────────────────────────────────────── \n  \u001b[38;2;31;119;180m━━━━━━━━━━━━━━━━━━━━━━━━━\u001b[0m   2000    0             0.23        15           111.85 draws/s   0:00:17   0:00:00    \n  \u001b[38;2;31;119;180m━━━━━━━━━━━━━━━━━━━━━━━━━\u001b[0m   2000    0             0.15        15           54.99 draws/s    0:00:36   0:00:00    \n  \u001b[38;2;31;119;180m━━━━━━━━━━━━━━━━━━━━━━━━━\u001b[0m   2000    0             0.27        15           36.73 draws/s    0:00:54   0:00:00    \n  \u001b[38;2;31;119;180m━━━━━━━━━━━━━━━━━━━━━━━━━\u001b[0m   2000    0             0.22        15           27.86 draws/s    0:01:11   0:00:00    \n                                                                                                                   \n"},"metadata":{},"output_type":"display_data"}],"tabbable":null,"tooltip":null}},"e3abdc8187484b51b8e2f93b1f2c29a8":{"model_module":"@jupyter-widgets/base","model_module_version":"2.0.0","model_name":"LayoutModel","state":{"_model_module":"@jupyter-widgets/base","_model_module_version":"2.0.0","_model_name":"LayoutModel","_view_count":null,"_view_module":"@jupyter-widgets/base","_view_module_version":"2.0.0","_view_name":"LayoutView","align_content":null,"align_items":null,"align_self":null,"border_bottom":null,"border_left":null,"border_right":null,"border_top":null,"bottom":null,"display":null,"flex":null,"flex_flow":null,"grid_area":null,"grid_auto_columns":null,"grid_auto_flow":null,"grid_auto_rows":null,"grid_column":null,"grid_gap":null,"grid_row":null,"grid_template_areas":null,"grid_template_columns":null,"grid_template_rows":null,"height":null,"justify_content":null,"justify_items":null,"left":null,"margin":null,"max_height":null,"max_width":null,"min_height":null,"min_width":null,"object_fit":null,"object_position":null,"order":null,"overflow":null,"padding":null,"right":null,"top":null,"visibility":null,"width":null}}},"version_major":2,"version_minor":0}
 </script>
 <script id="quarto-html-after-body" type="application/javascript">
 window.document.addEventListener("DOMContentLoaded", function (event) {
